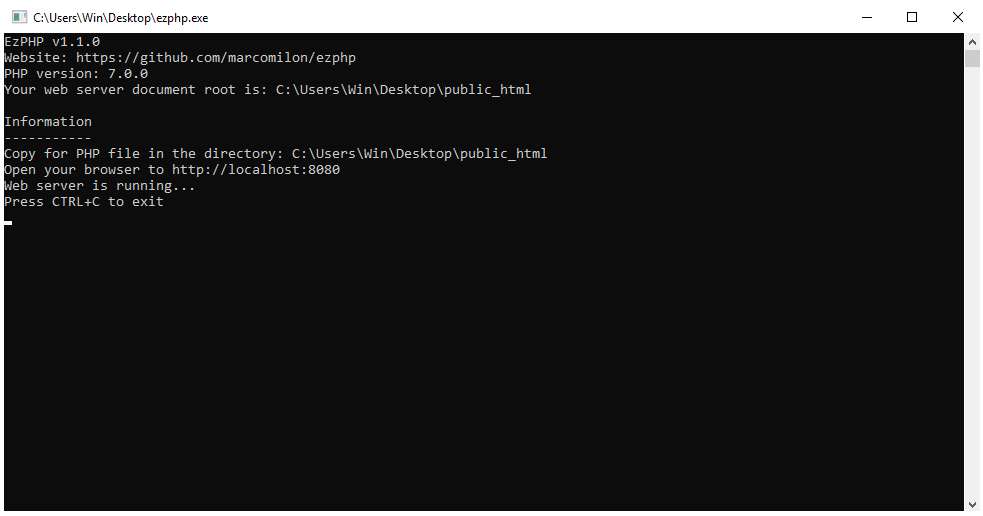
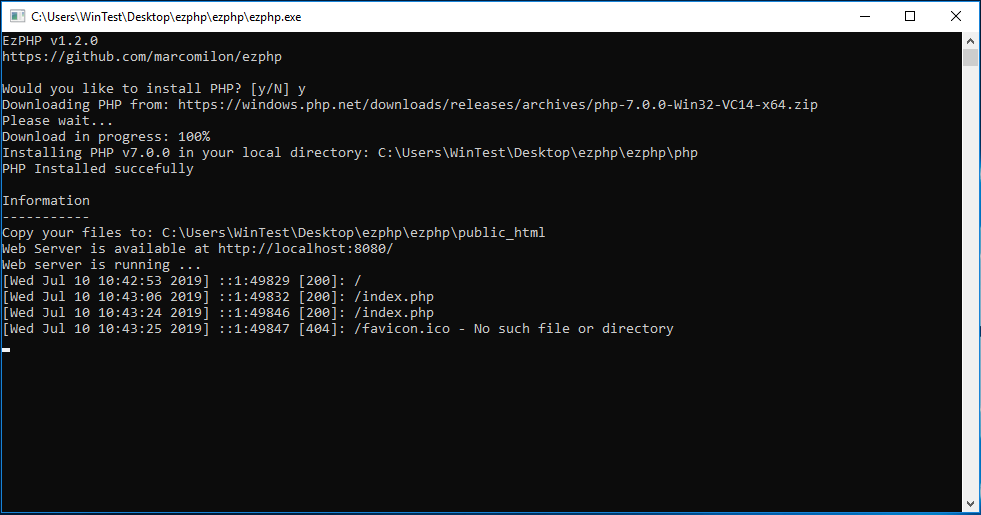
Update README

Changed region(s): [[0.0, 0.0, 1.0, 1.0]]

diff --git a/main.go b/main.go
@@ -8,7 +8,7 @@ import (
 )
 
 const (
-	ezPHPVersion = "1.1.0"
+	ezPHPVersion = "1.2.0"
 	ezPHPWebsite = "https://github.com/marcomilon/ezphp"
 )
 

diff --git a/README.md b/README.md
@@ -1,19 +1,10 @@
-### EzPHP
+![EzPHP](logo/logotype.png "EzPHP")
 
-```
- ______     _____  _    _ _____ 
-|  ____|   |  __ \| |  | |  __ \
-| |__   ___| |__) | |__| | |__) |
-|  __| |_  /  ___/|  __  |  ___/
-| |____ / /| |    | |  | | |
-|______/___|_|    |_|  |_|_|
-```
+EzPHP give you a personal PHP webserver for development. 
 
-EzPHP is an alternative to Xamp/Wamp. EzPHP is the easiest way to setup a PHP development environment for learning PHP programming on Windows.
+The goal of the project is to provide a single .exe file that will get you a ready to use PHP development environment.
 
-The scope of this project is to provide a single .exe file that will get you a PHP developing server.
-
-![EzPHP](https://raw.githubusercontent.com/marcomilon/ezphp/master/ezphp.png)
+![EzPHP](ezphp.png)
 
 ### Installation
 
@@ -24,15 +15,26 @@ The scope of this project is to provide a single .exe file that will get you a P
 
 Advanced user execute `ezphp.exe -h` to view all options.
 
+```
+Usage of ./ezphp:
+  -S string
+        <addr>:<port> - Run with built-in web server. (default "localhost:8080")
+  -t string
+        <docroot> - Specify document root <docroot> for built-in web server. (default "public_html")
+```
+
 ### How it works?
 
-After launching ezphp.exe you will get a PHP web server on port 8080. 
-To start programming with PHP just copy your PHP files to the **Document root** directory and then open the url **http://localhost:8080** on your web browser.
+After launching ezphp.exe you will get a PHP web server on port 8080. See Usage to change the port. 
+
+To start working just copy your PHP files to the **Document root** folder and then open the url **http://localhost:8080** on your web browser.
 
 ### Why i created EzPHP?
 
-XAMP or equivalent environments are difficult to set up for users who are learning to code. With EzPHP you have a development environment with just one click.
-EzPHP is available only for windows.
+XAMP or equivalent environments are difficult to set up for inexperienced users. 
+EzPHP gives you have a PHP development environment with just one click.
+
+**Note:** EzPHP is available only for windows.
 
 ### Requirements
 
@@ -41,7 +43,7 @@ In case you need it you can download it from https://www.microsoft.com/en-us/dow
 
 ### Contribution
 
-Feel free to contribute! Just create a new issue or a new pull request.
+EzPHP is open source. Feel free to contribute! Just create a new issue or a new pull request.
 
 ### License
 
